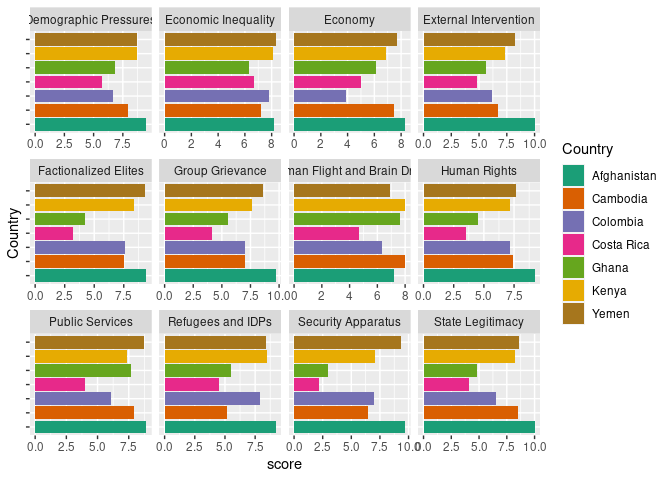
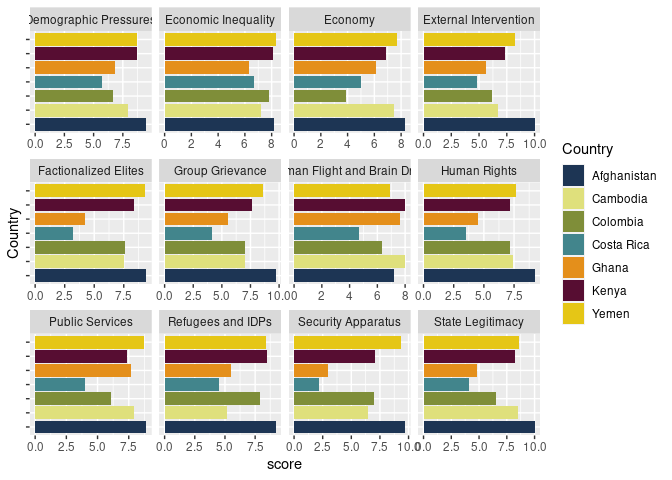
Adjusted the graph for sub-indicators

Changed region(s): [[0.0312, 0.3438, 0.875, 0.6875], [0.0312, 0.0625, 0.8125, 0.2812], [0.0312, 0.6875, 0.8125, 0.9062]]

diff --git a/research_report.md b/research_report.md
@@ -11,8 +11,8 @@ transform violent conflict into stable, nonviolent social and political
 relationships is a great challenge.
 
 Recently, a new tool for peacebuilding has caught the attention of
-scholars and practitioners: *Infrastructures for Peace* (I4P). These can
-be understood as a dynamic network of skills, capacities, resources,
+scholars and practitioners: **Infrastructures for Peace** (I4P). These
+can be understood as a dynamic network of skills, capacities, resources,
 tools and institutions that help build constructive relationships and
 enhance sustainable resilience of societies against the risks of relapse
 into violence (Giessmann, 2016).
@@ -38,12 +38,11 @@ These countries adopted at least one of the following infrastructures:
 national peace councils, government departments, or peace ministries,
 policy and legislative measures creating I4P, or transitional justice
 mechanisms. If they were to be effective, we should see an improvement
-in the *Fragile State Index* overall score in the subsequent years to
+in the **Fragile State Index** overall score in the subsequent years to
 the implementation; nonetheless, as we can see on the graph, this is not
 the case for most countries.
 
-**(Take into consideration that a higher score, means worse
-conditions).**
+*(Take into consideration that a higher score, means worse conditions).*
 
 Only Colombia and Costa Rica seemed to have improve in terms of state
 fragility in the years after the implementation of peace
